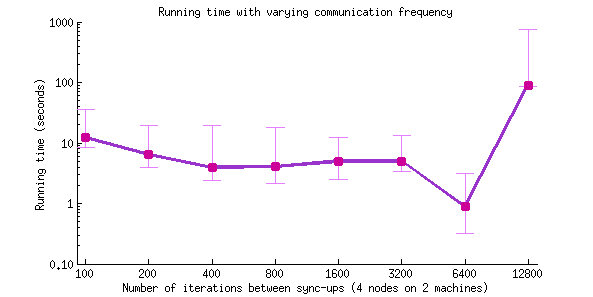
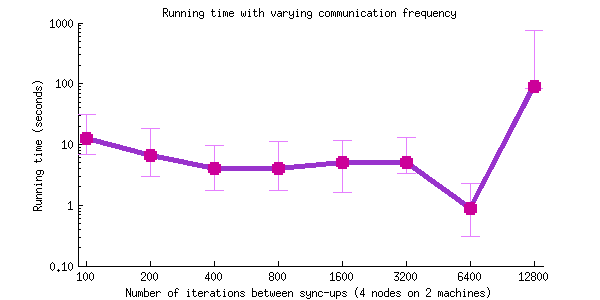
papery

diff --git a/paper.tex b/paper.tex
@@ -85,15 +85,13 @@ Therefore, it suffices to use pointers referring to the machine's local entry fo
 
 \section{Experimental Setup}
 
-We tested our algorithm on a set of four random sliding tile puzzles of size 5x5, averaging the results of each trial into a single result. The data we collected were (1) running time, (2) number of states in the problem graph that were expanded during the course of searching for a solution, and (3) the length in steps of the best solution at termination.
-
-%TODO: ^ Explain how the states expanded node is calculated? Maybe as a footnote?
+We tested our algorithm on the 24-puzzle, a 5x5 grid of sliding blocks which must be rearranged to achieve a standard goal configuration, somewhat akin to solving a Rubix cube. Uniformly at random, we generated ten starting configurations among the over $3\times 10^{23}$ states of the puzzle. The data we collected were (1) running time, (2) total number of states in the problem graph that were expanded across all processes during the search, and (3) the length in steps of the best solution at termination. Our main evaluation criterion is the time to complete the search with the required suboptimality guarantee, which we fix to $w_1 w_2 = 4$.
 
 % TODO: Apt? Machine specs?
 
 % TODO: Talk about what we varied for the tests. Frequency of communication, effect of adding more heuristics, effect of adding more machines (maybe we want a graph that compares the effect of adding more heuristics on the same machine vs. adding more heuristics by using more machines), and comparison to single thread/round robing running time
 
-In MHA*, two weights are specified. The first weight ($w_1$) determines how much priority to give heuristic expansions over the anchor search. A higher $w_1$ results in more depth-first-search-like behavior. The second weight ($w_2$) determines how close to the current known minimum path length a path to the goal must be before being selected as a solution. MHA* gives a guarantee that the solution found at termination is at most $w_1 * w_2$ times the optimum value. For all experiments, we used $w_1$, $w_2 = 2$. Note that when there is only one heuristic in a test (the admissible heuristic), the optimal shortest path to the goal will be found by only having to expand each state at most once (guaranteed by running A* with an admissible heuristic) and neither $w_1$ nor $w_2$ have any effect.
+SMHA* specifies two weight parameters. The first weight ($w_1$) gives the search a more depth-first goal-directed focus. The second weight ($w_2$) determines the margin by which a proposed solution's cost may exceed the anchor's minimum frontier key value, which is itself $w1$ times a lower bound on the optimum solution cost. Therefore, SMHA* guarantees that the solution found at termination is at most $w_1 w_2$ times the optimum value. For all experiments, we used $w_1 = w_2 = 2$. Every state expanded by the anchor has a $g$ value which is optimal to within a factor of $w_1$.
 
 \section{Results}
 

diff --git a/graph_file.m b/graph_file.m
@@ -9,7 +9,7 @@ labSolution = 'Shortest solution';
 
 % EXAMPLE #1 OF HOW TO GRAPH STUFF
 % Change the following if necessary
-filegroup = 'lame';
+filegroup = 'cores';
 xvals = [1, 2, 4, 8, 16];
 xlab = 'Number of nodes/heuristics (one machine)';
 titleRuntime = 'Running time with varying number of nodes';
@@ -32,14 +32,14 @@ print(fig_handle, ['graphs/', filegroup, '_solutionquality.png'], '-dpng', '-r0'
 % EXAMPLE #2 OF HOW TO GRAPH STUFF
 % Change the following if necessary
 filegroup1 = 'lame';
-filegroup2 = 'cool';
+filegroup2 = 'cores';
 xvals = [1, 2, 4, 8, 16];
 xlab = 'Number of nodes/heuristics (one machine)';
-titleRuntime = 'Running time with varying number of nodes';
-titleExpansions = 'States expanded with varying number of nodes';
-titleSolution = 'Solution length with varying number of nodes';
-legendlab1 = 'Lame SMHA*';
-legendlab2 = 'Cool SMHA*';
+titleRuntime = 'Running time with varying number of heuristics';
+titleExpansions = 'States expanded with varying number of heuristics';
+titleSolution = 'Solution length with varying number of heuristics';
+legendlab1 = 'Sequential';
+legendlab2 = 'Multi-core';
 
 % Do not need to change the following (I think)
 [runtime1, expansions1, solution1, error_r1, error_e1, error_s1] = get_data(filegroup1, xvals);
@@ -105,11 +105,11 @@ for i = 1:numfiles
   s_sort = sort(M(:, 5));
 
   runtime(i) = mean(r_sort(2:end-1)); % average values over trials and store
-  error_r(:,i) = [r_sort(1); r_sort(end)]; % save lowest and highest for error bars
+  error_r(:,i) = [r_sort(2); r_sort(end-1)]; % save lowest and highest for error bars
   expansions(i) = mean(e_sort(2:end-1));
-  error_e(:,i) = [e_sort(1); e_sort(end)];
+  error_e(:,i) = [e_sort(2); e_sort(end-1)];
   solution(i) = mean(s_sort(2:end-1));
-  error_s(:,i) = [s_sort(1); s_sort(end)];
+  error_s(:,i) = [s_sort(2); s_sort(end-1)];
 end
 
 end
